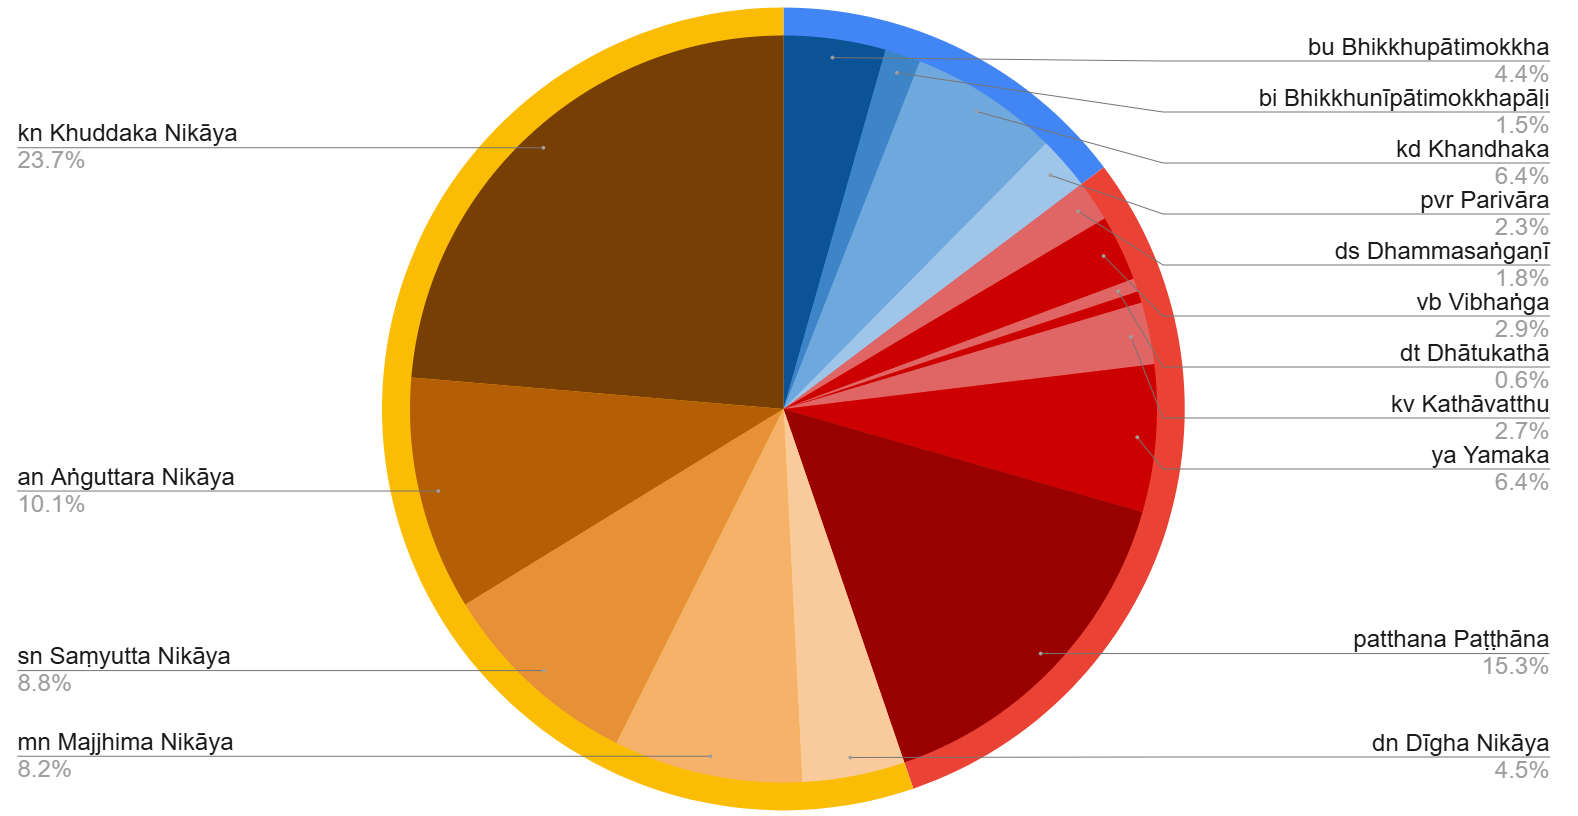
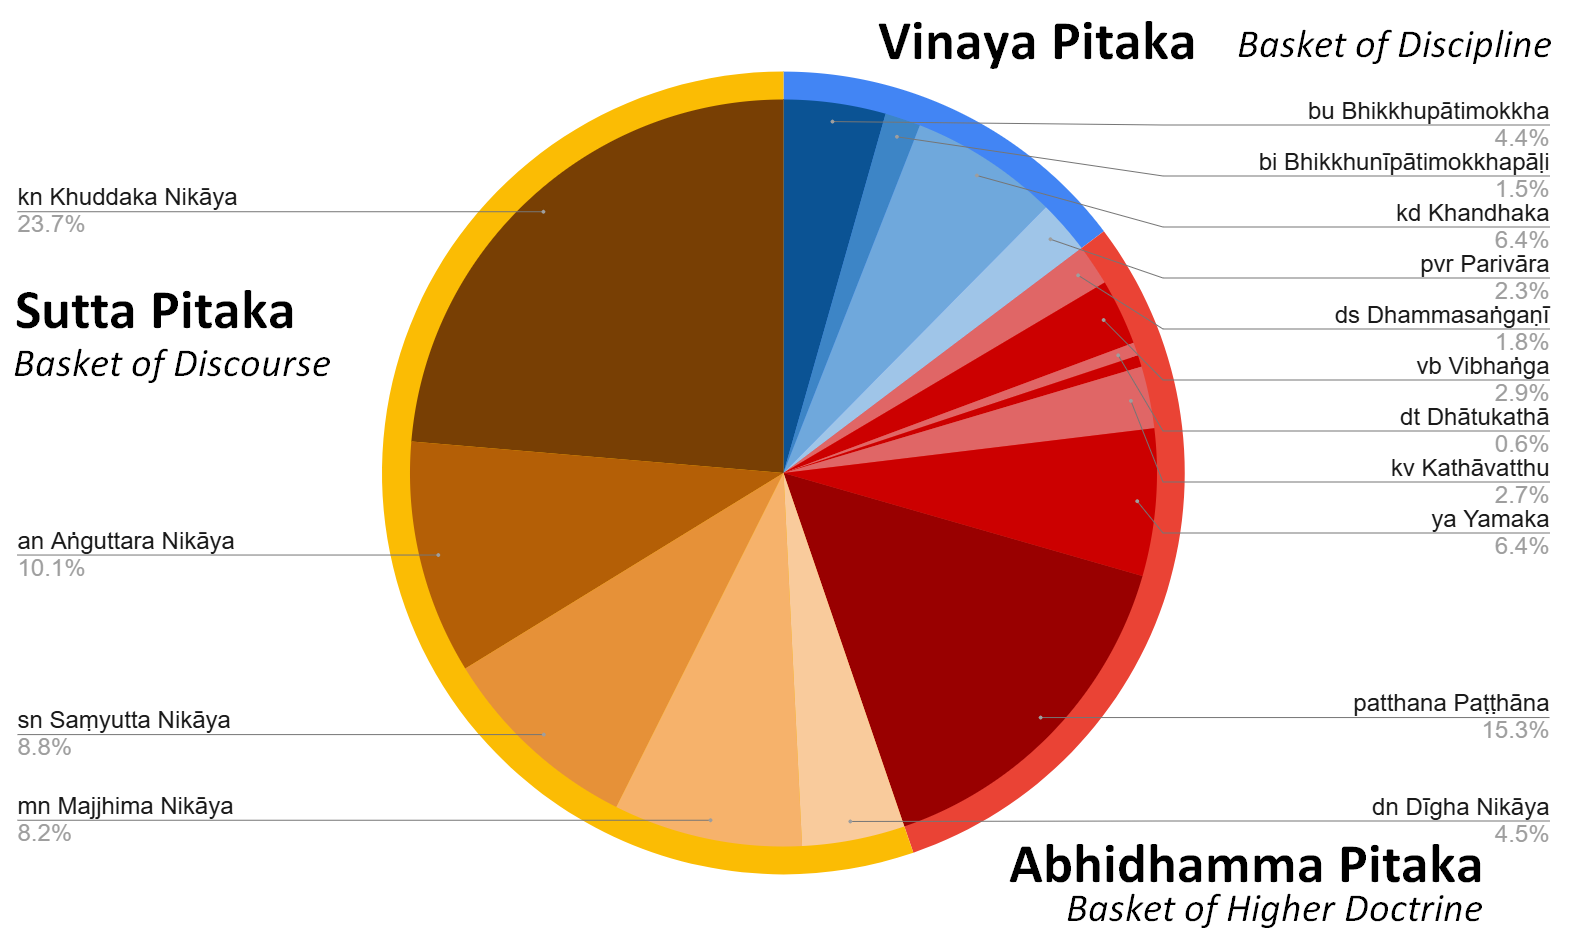
Updated description, visualization

diff --git a/docs/README.md b/docs/README.md
@@ -1,6 +1,6 @@
 # Tripitaka
 
-Make the text of the Tripitaka searchable for phrases and statistics. And compare the results to the Bible.
+I want to get some statistics on the text of the Tripitaka and probably make it searchable for phrases. Then compare the results to the Bible. Here the short result: The three baskets have 2782 books and 5273 chapters that could be printed on 7013 pages. The Bible has 66 books with 1189 chapters that in the kjv could be printed on 1062 pages. The Tripitaka is therefore roughly 6.6x as large.
 
 ## The Pali version by the [The Vipassana Research Institute (VRI)](https://www.vridhamma.org/Tipitaka-Project)
 
@@ -153,7 +153,35 @@ More details on the three baskets of the Tipitaka:
   - [Yamaka](https://en.wikipedia.org/wiki/Yamaka)
   - [Paṭṭhāna](https://en.wikipedia.org/wiki/Pa%E1%B9%AD%E1%B9%ADh%C4%81na) (paṭṭhāna) - 24 types of conditional relations (the Buddhist belief that causality — not a Creator deity — is the basis of existence) on some 1000 pages
 
+## Size of the 3 baskets and their main 16 Collections
+
+I use the Pali text to estimate the pages needed to print the complete text 80x50 characters per page (Consolas 11pt on A4 with 17/19mm border)
+
+| Basket | Vinaya Piṭaka (Basket of Discipline) | Sutta Pitaka - 5 Nikāyas | Abhidhamma Piṭaka (Basket of Higher Doctrine) |
+|--------|--------------------------------------|--------------------------|-----------------------------------------------|
+| Pages  | 1031                                 | 3872                     | 2106                                          |
+| Including | bu, bi, kd, pvr                   | dn, mn, sn, an, kn       | ds, vb, dt, pp, lv, ya, patthana              |
+
 ![Size of Tripitaka based on pages](size_tripitaka.png)
+
+| code     | name                | pages | content                                                                                            |
+|----------|---------------------|-------|----------------------------------------------------------------------------------------------------|
+| bu       | Bhikkhupātimokkha   |   309 | 227 rules for monks (bhikkhus) in the Pāṭimokkha, Suttavibhaṅga (“rule analysis”)                  |
+| bi       | Bhikkhunīpātimokkha |   108 | 311 rules for nuns (bhikkhuṇīs)                                                                    |
+| kd       | Khandhaka           |   452 | 22 chapters on various topics                                                                      |
+| pvr      | Parivāra            |   162 | 19 chapters with analyses of rules from various points of view                                     |
+| ds       | Dhammasaṅgaṇī       |   124 | lit. 'Collection of Dhammas'                                                                       |
+| vb       | Vibhaṅga            |   200 | 18 chapters: aggregate, sense bases, elements, truth, faculties, dependent origination and more    |
+| dt       | Dhātukathā          |    40 | "Discourse on Elements" in the form of questions and answers, grouped into 14 chapters             |
+| pp       | Puggalapaññatti     |    35 | Classifications of persons, which are arranged numerically, from 1-fold to 10-fold.                |
+| kv       | Kathāvatthu         |   188 | "Points of Controversy", documents over 200 points of contention.                                  |
+| ya       | Yamaka              |   446 | यमक; Pali for "pairs", text on applied logic and analysis                                          |
+| patthana | Paṭṭhāna            |  1073 | 24 types of conditional relations, causality is the basis for existence                            |
+| dn       | Dīgha Nikāya        |   312 | "Collection of Long Discourses" - 34 suttras                                                       |
+| mn       | Majjhima Nikāya     |   573 | "Collection of Middle-length Discourses" - 152 or 222 suttras                                      |
+| sn       | Saṃyutta Nikāya     |   620 | "Connected Discourses" or "Kindred Sayings" - 2854 to 7762 suttras                                 |
+| an       | Aṅguttara Nikāya    |   709 | lit. 'Increased-by-One Collection', also translated "Gradual Collection" or "Numerical Discourses" |
+| kn       | Khuddaka Nikāya     |  1658 | lit. 'Minor Collection' - 15 to 18 books                                                           |
 
 # More details in comparison
 

diff --git a/README.md b/README.md
@@ -153,9 +153,37 @@ More details on the three baskets of the Tipitaka:
   - [Yamaka](https://en.wikipedia.org/wiki/Yamaka)
   - [Paṭṭhāna](https://en.wikipedia.org/wiki/Pa%E1%B9%AD%E1%B9%ADh%C4%81na) (paṭṭhāna) - 24 types of conditional relations (the Buddhist belief that causality — not a Creator deity — is the basis of existence) on some 1000 pages
 
+## Size of the 3 baskets and their main 16 Collections
+
+I use the Pali text to estimate the pages needed to print the complete text 80x50 characters per page (Consolas 11pt on A4 with 17/19mm border)
+
+| Basket | Vinaya Piṭaka (Basket of Discipline) | Sutta Pitaka - 5 Nikāyas | Abhidhamma Piṭaka (Basket of Higher Doctrine) |
+|--------|--------------------------------------|--------------------------|-----------------------------------------------|
+| Pages  | 1031                                 | 3872                     | 2106                                          |
+| Including | bu, bi, kd, pvr                   | dn, mn, sn, an, kn       | ds, vb, dt, pp, lv, ya, patthana              |
+
 ![Size of Tripitaka based on pages](docs/size_tripitaka.png)
 
 # More details in comparison
+
+| code     | name                    | pages | content                                                                                            |
+|----------|-------------------------|-------|----------------------------------------------------------------------------------------------------|
+| bu       | Bhikkhupātimokkha       |   309 | 225 verses in the Pāṭimokkha with 227 rules for monks (bhikkhus) in the                            |
+| bi       | Bhikkhunīpātimokkhapāḷi |   108 | 311 rules for nuns (bhikkhuṇīs)                                                                    |
+| kd       | Khandhaka               |   452 | 22 chapters on various topics                                                                      |
+| pvr      | Parivāra                |   162 | 19 chapters with analyses of rules from various points of view                                     |
+| ds       | Dhammasaṅgaṇī           |   124 | lit. 'Collection of Dhammas'                                                                       |
+| vb       | Vibhaṅga                |   200 | 18 chapters: aggregate, sense bases, elements, truth, faculties, dependent origination and more    |
+| dt       | Dhātukathā              |    40 | "Discourse on Elements" in the form of questions and answers, grouped into 14 chapters             |
+| pp       | Puggalapaññatti         |    35 | Classifications of persons, which are arranged numerically, from 1-fold to 10-fold.                |
+| kv       | Kathāvatthu             |   188 | "Points of Controversy", documents over 200 points of contention.                                  |
+| ya       | Yamaka                  |   446 | यमक; Pali for "pairs", text on applied logic and analysis                                          |
+| patthana | Paṭṭhāna                |  1073 | 24 types of conditional relations, causality is the basis for existence                            |
+| dn       | Dīgha Nikāya            |   312 | "Collection of Long Discourses" - 34 suttras                                                       |
+| mn       | Majjhima Nikāya         |   573 | "Collection of Middle-length Discourses" - 152 or 222 suttras                                      |
+| sn       | Saṃyutta Nikāya         |   620 | "Connected Discourses" or "Kindred Sayings" - 2854 to 7762 suttras                                 |
+| an       | Aṅguttara Nikāya        |   709 | lit. 'Increased-by-One Collection', also translated "Gradual Collection" or "Numerical Discourses" |
+| kn       | Khuddaka Nikāya         |  1658 | lit. 'Minor Collection' - 15 to 18 books                                                           |
 
 ## King-James-Bible
 
